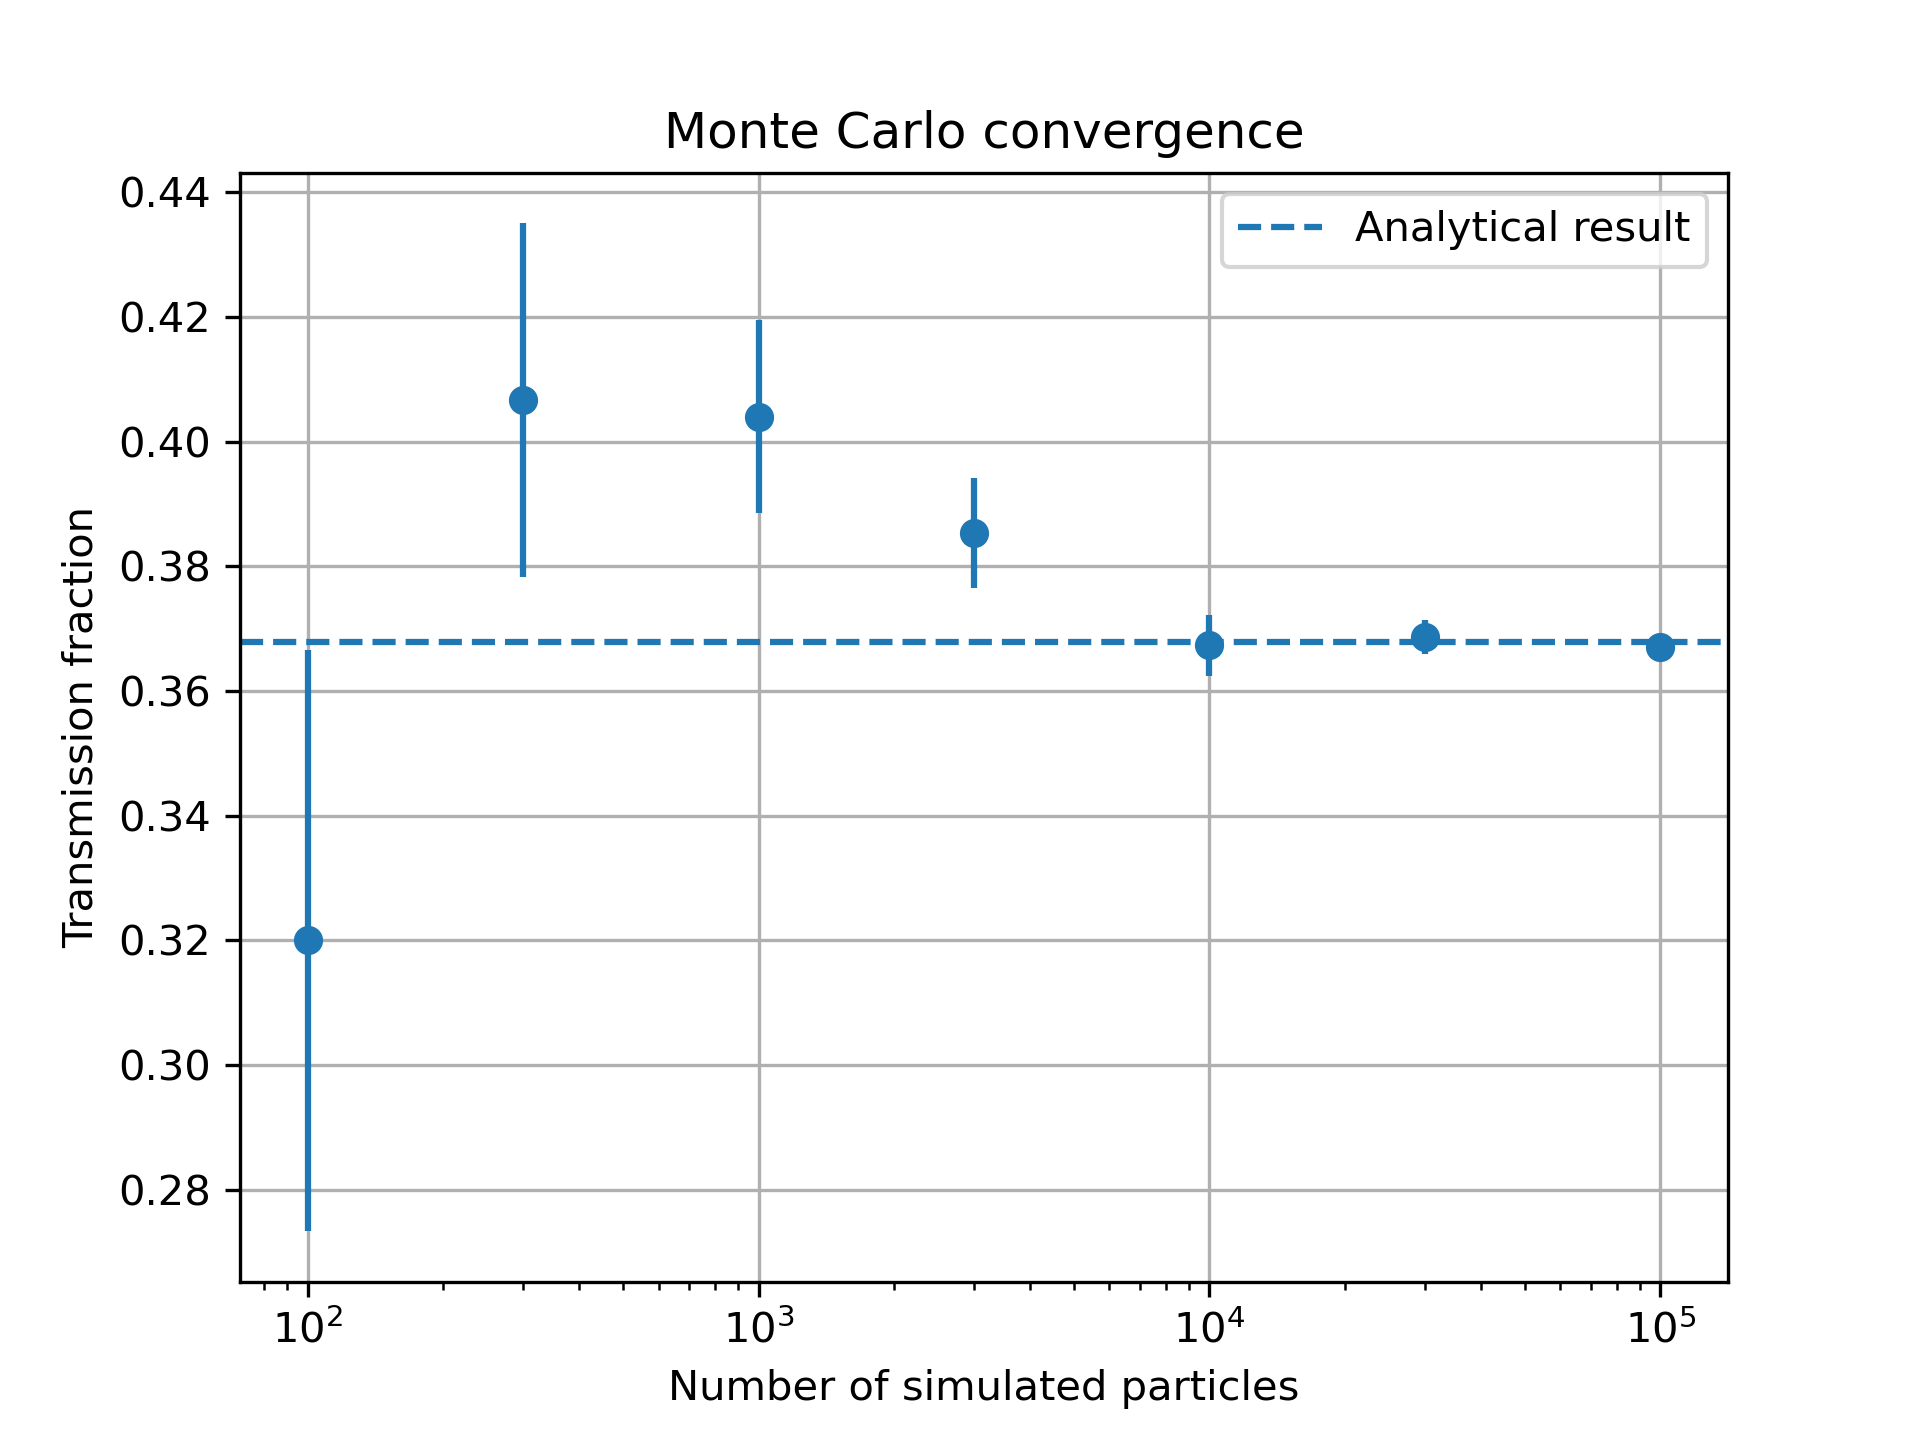
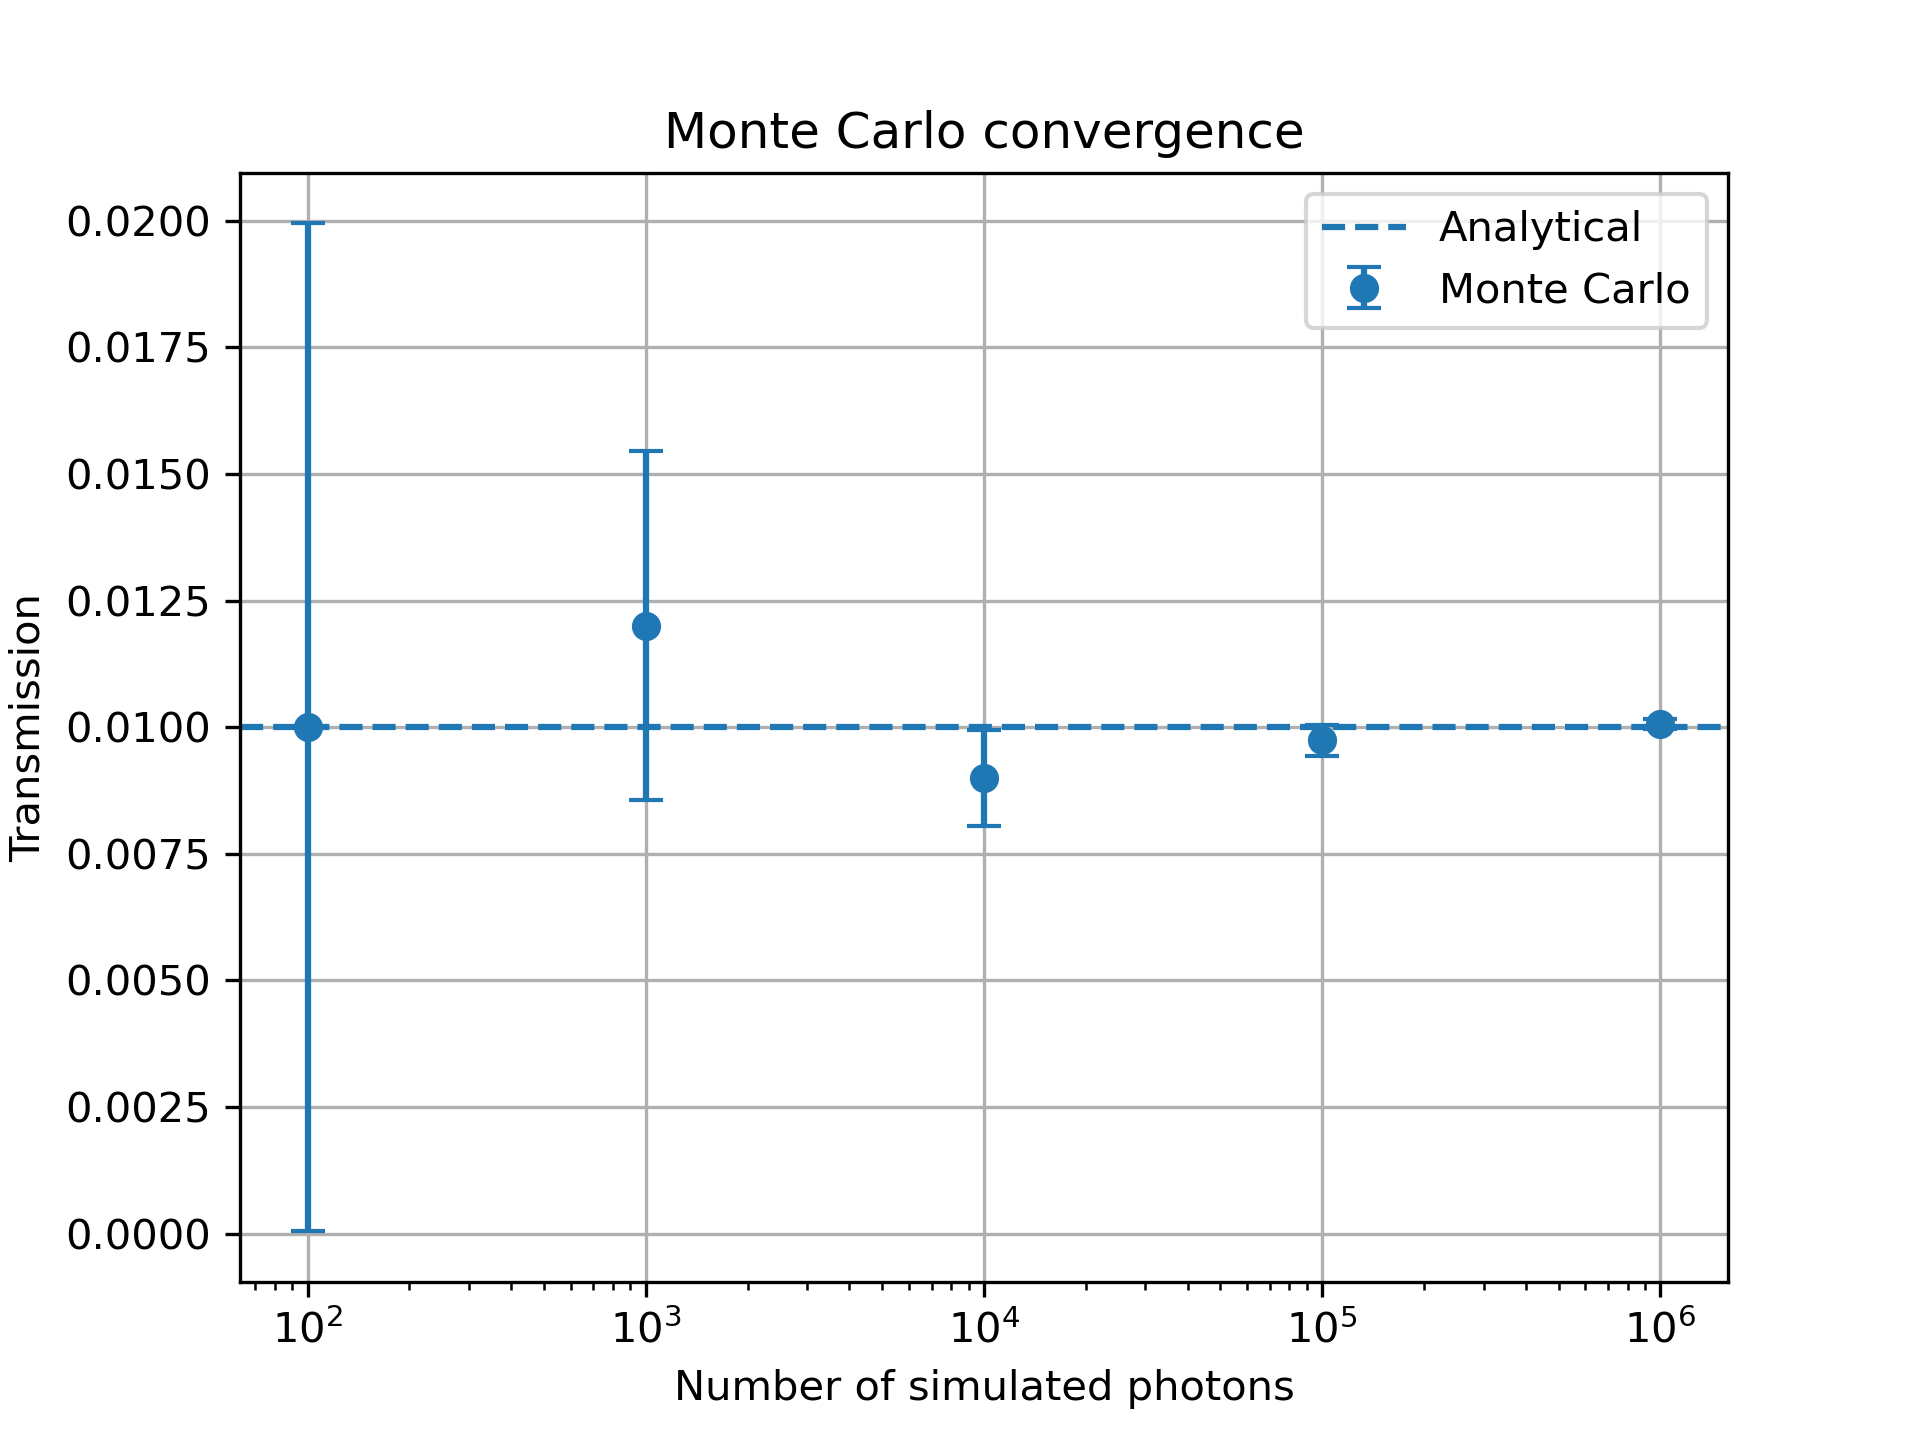
Add Monte Carlo convergence analysis

diff --git a/examples/monte_carlo_convergence.py b/examples/monte_carlo_convergence.py
@@ -1,0 +1,109 @@
+import numpy as np
+import matplotlib.pyplot as plt
+
+from src.data_loader import (
+    get_linear_attenuation_coefficient
+)
+
+from src.monte_carlo import (
+    simulate_transmission,
+    transmission_uncertainty
+)
+
+from src.attenuation import (
+    transmitted_intensity
+)
+
+
+material = "lead"
+energy = 1.0
+thickness = 5.718
+
+particle_numbers = np.array([
+    100,
+    1000,
+    10000,
+    100000,
+    1000000
+])
+
+
+mu = get_linear_attenuation_coefficient(
+    material,
+    energy
+)
+
+
+analytical = transmitted_intensity(
+    1.0,
+    mu,
+    thickness
+)
+
+
+transmissions = []
+uncertainties = []
+
+
+for number_of_particles in particle_numbers:
+
+    transmission = simulate_transmission(
+        mu,
+        thickness,
+        number_of_particles
+    )
+
+    uncertainty = transmission_uncertainty(
+        transmission,
+        number_of_particles
+    )
+
+    transmissions.append(transmission)
+    uncertainties.append(uncertainty)
+
+
+    print(
+        f"N = {number_of_particles:>7}: "
+        f"T = {transmission:.6f} "
+        f"+/- {uncertainty:.6f}"
+    )
+
+
+plt.figure()
+
+plt.errorbar(
+    particle_numbers,
+    transmissions,
+    yerr=uncertainties,
+    marker="o",
+    linestyle="none",
+    capsize=4,
+    label="Monte Carlo"
+)
+
+plt.axhline(
+    analytical,
+    linestyle="--",
+    label="Analytical"
+)
+
+plt.xscale("log")
+
+plt.xlabel("Number of simulated photons")
+
+plt.ylabel("Transmission")
+
+plt.title(
+    "Monte Carlo convergence"
+)
+
+plt.legend()
+
+plt.grid()
+
+plt.savefig(
+    "figures/monte_carlo_convergence.png",
+    dpi=300
+)
+
+plt.show()

diff --git a/tests/test_monte_carlo.py b/tests/test_monte_carlo.py
@@ -108,3 +108,38 @@ def test_invalid_particle_number_for_uncertainty():
             transmission=0.5,
             number_of_particles=0
         )
+
+def test_transmission_uncertainty():
+
+    result = transmission_uncertainty(
+        0.5,
+        10000
+    )
+
+    expected = (
+        (0.5 * 0.5 / 10000) ** 0.5
+    )
+
+    assert result == pytest.approx(
+        expected
+    )
+
+
+def test_zero_transmission():
+
+    result = transmission_uncertainty(
+        0.0,
+        10000
+    )
+
+    assert result == 0.0
+
+
+def test_full_transmission():
+
+    result = transmission_uncertainty(
+        1.0,
+        10000
+    )
+
+    assert result == 0.0
